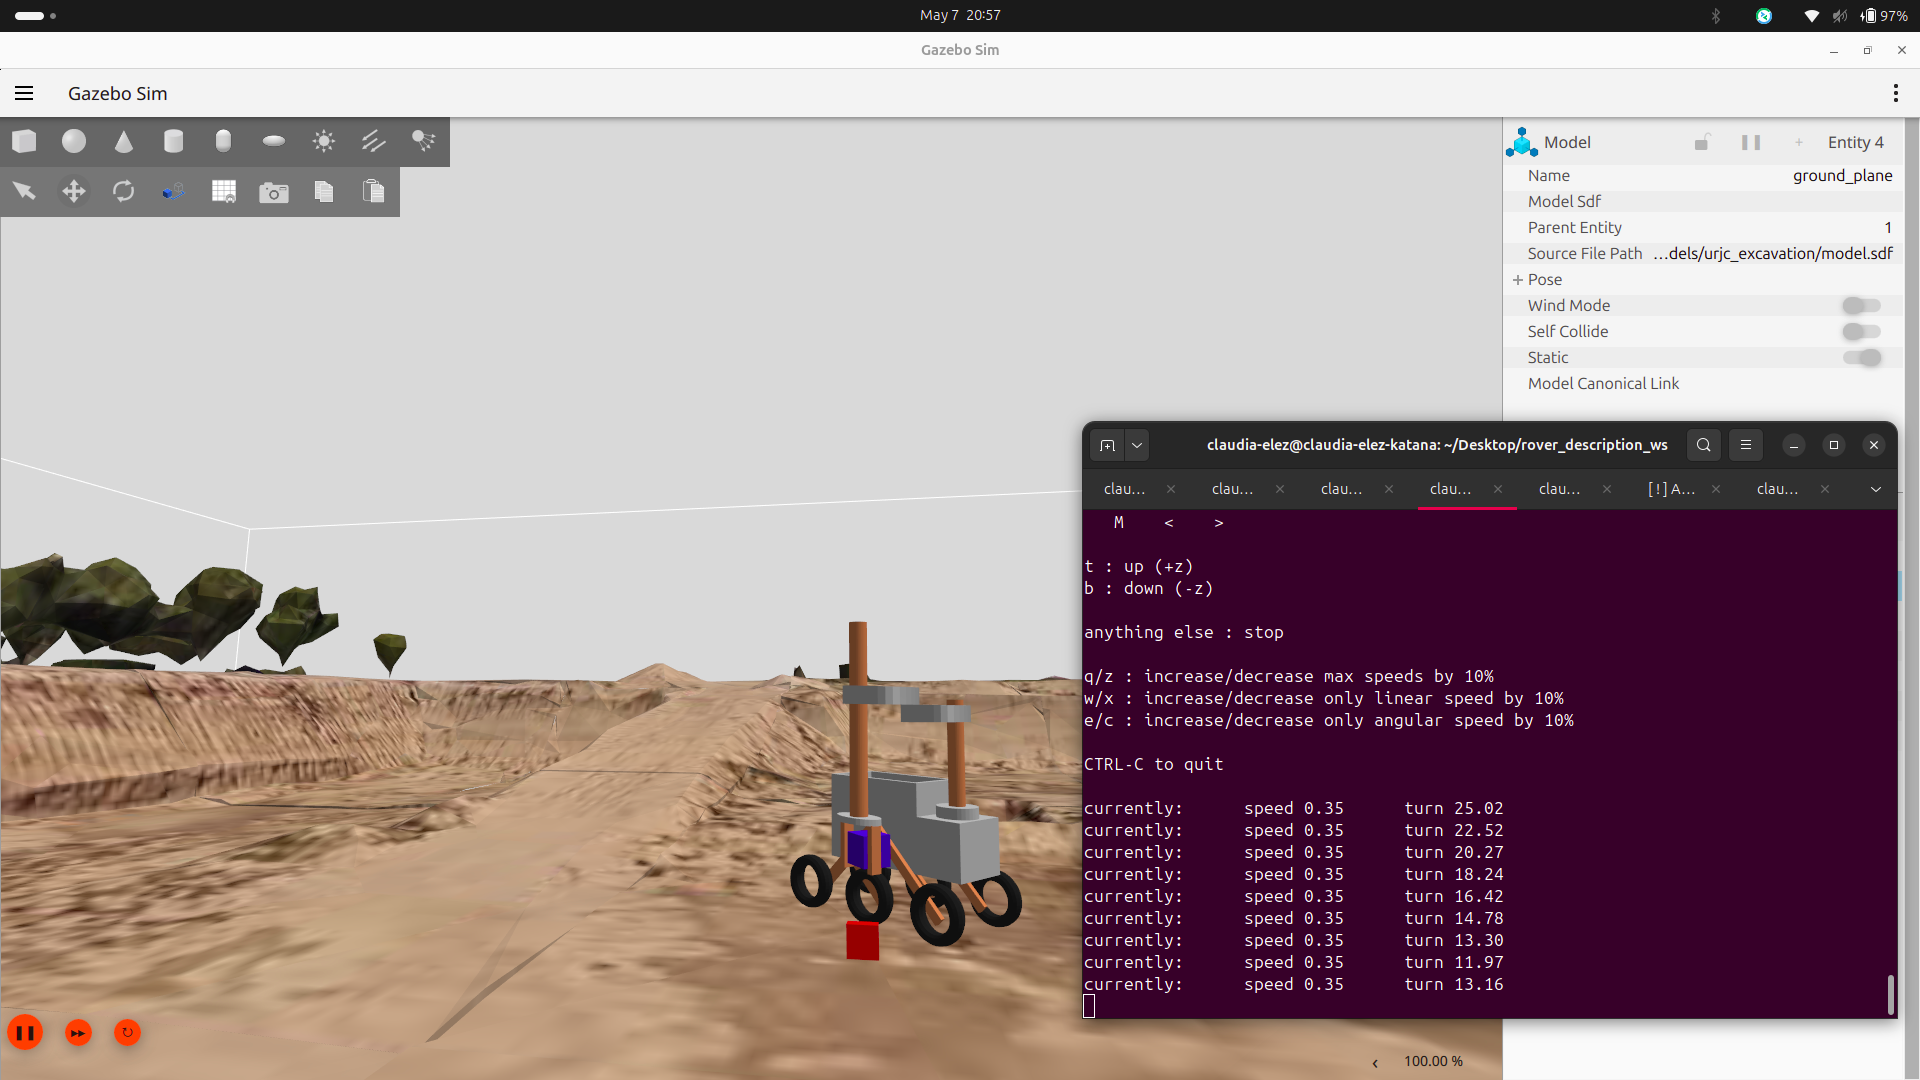
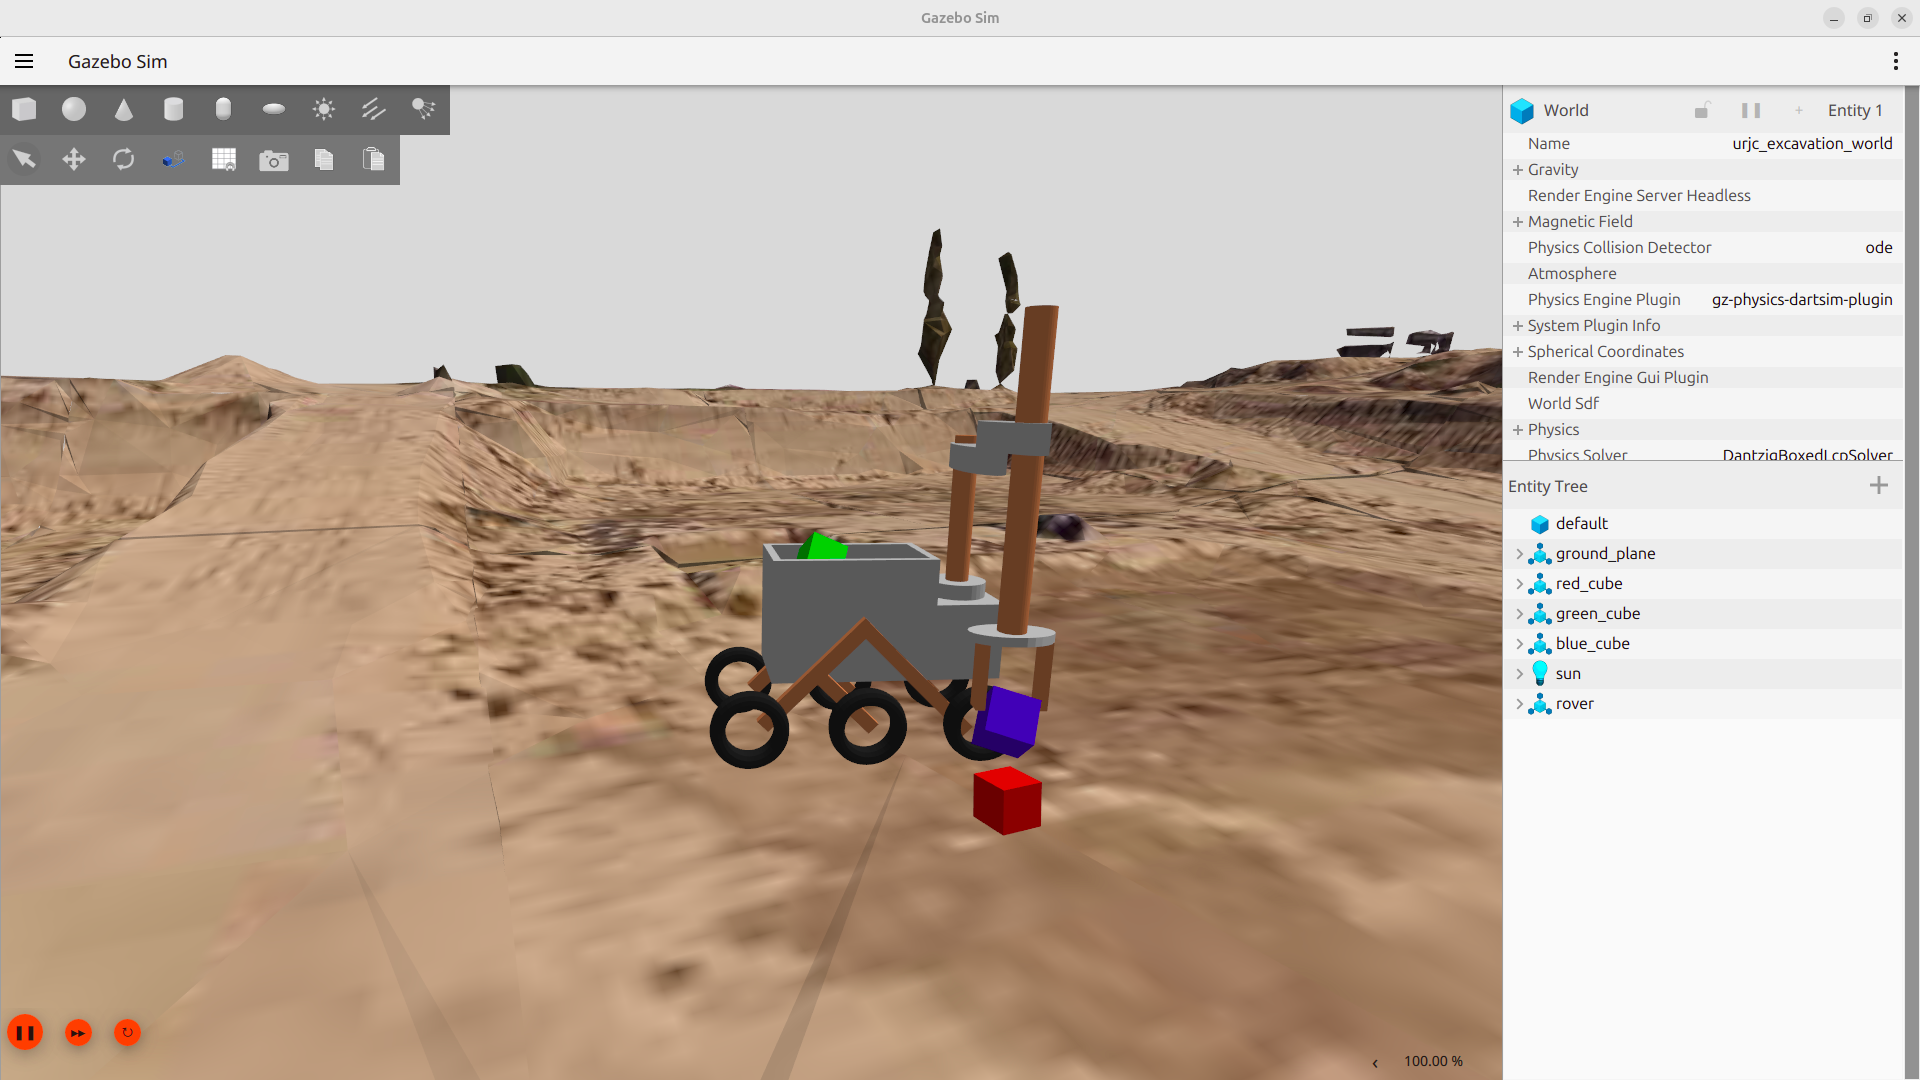
entrega

diff --git a/README.md b/README.md
@@ -1,7 +1,6 @@
 # Práctica 3: Simulación de Robots usando middleware
-
+Repositorio para la práctica final de la asignatura de 'Modelado y Simulación de Robots'. Ingeniería de Robótica Software.
 - **Autor:** Claudia Élez Mencía
-- **Asignatura:** Modelado y Simulación de Robots
 
 # Introducción
 Esta práctica consiste en teleoperar un rover, diseñado en prácticas anteriores, utilizando ROS y MoveIt. Para ello, esta práctica se ha dividido en 2 partes:
@@ -38,7 +37,7 @@ ros2 launch rover_description robot_controller.launch.py
 ros2 run teleop_twist_keyboard teleop_twist_keyboard
 ```
 
-Para grabar las rosbag:
+Para grabar la rosbag:
 ```bash
 ros2 bag record /cmd_vel /imu /joint_states -o practicafinal
 ```
